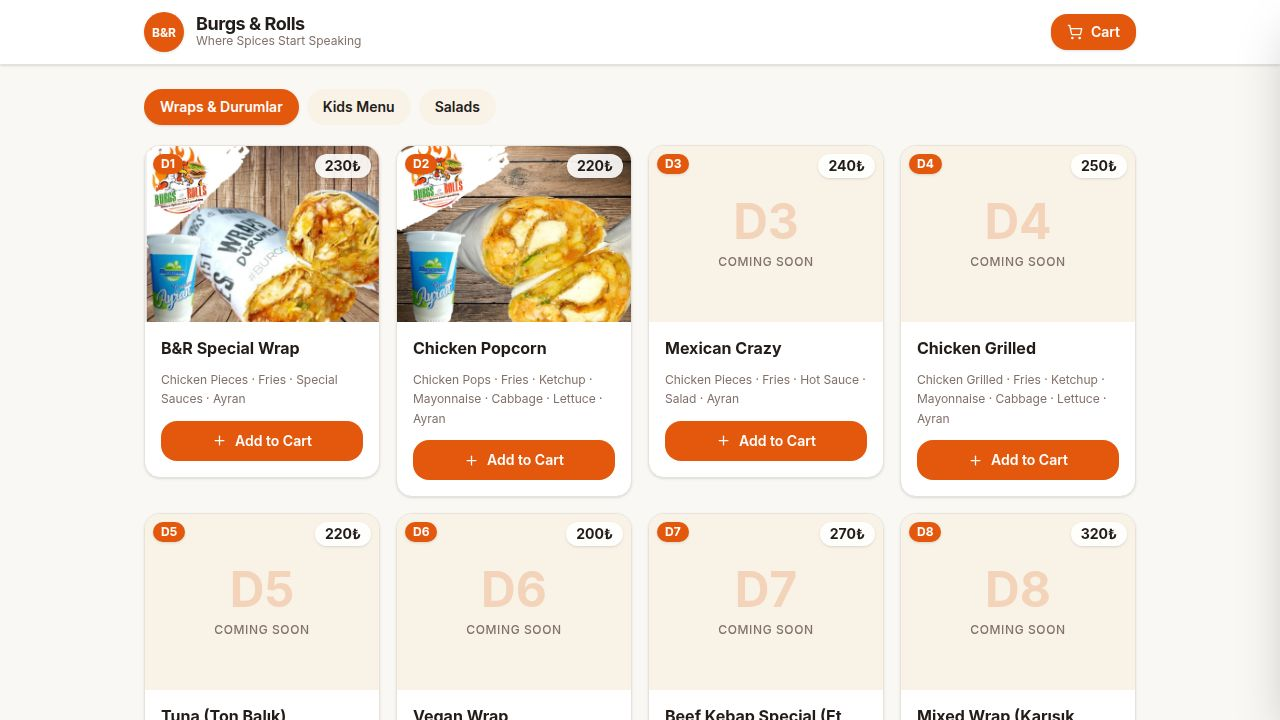
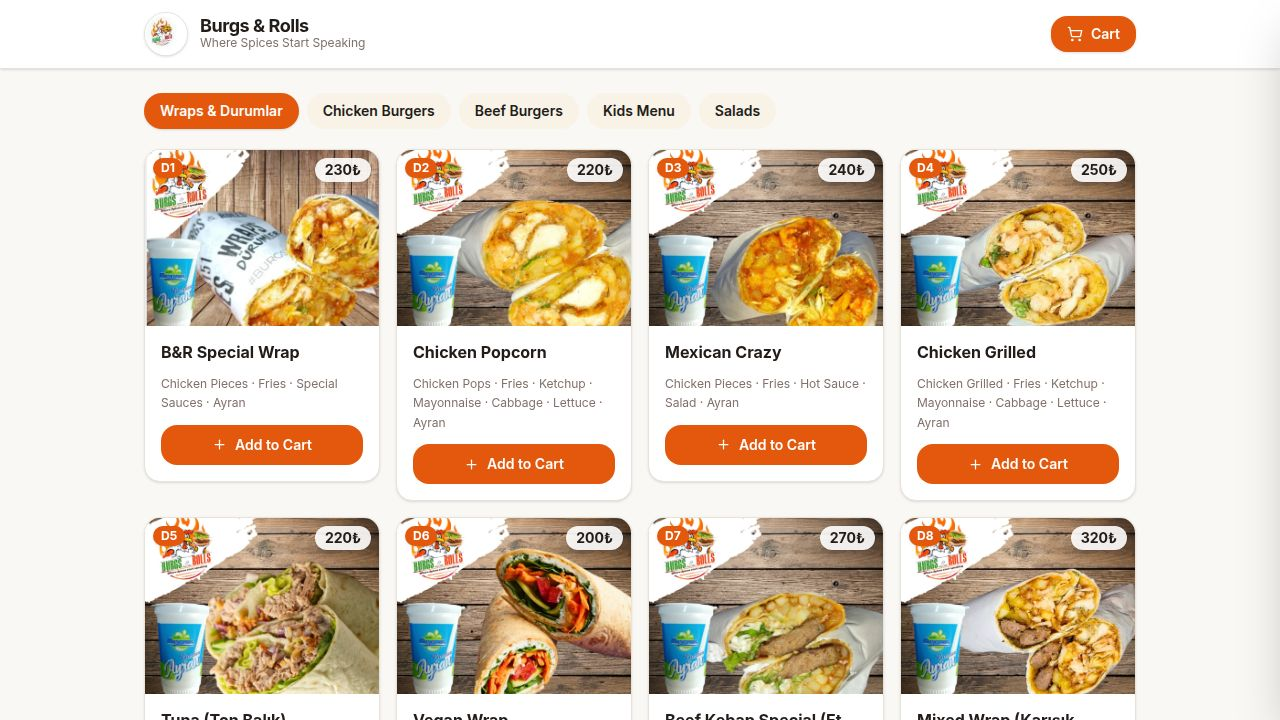
Add beef burgers category with seven new menu items
Adds a new "Beef Burgers" category to the menu data and incorporates seven new menu items (B8-B14) with their respective images, ingredients, and pricing in `src/data/menu.ts`.

Replit-Commit-Author: Agent
Replit-Commit-Session-Id: 3e6cf989-9e7e-4a2a-8a20-c185395ad889
Replit-Commit-Checkpoint-Type: full_checkpoint
Replit-Commit-Event-Id: 55054a33-ad62-4e13-8ffa-ddc3eda2355a
Replit-Commit-Screenshot-Url: https://storage.googleapis.com/screenshot-production-us-central1/345a1195-fdef-4de6-a1ad-b67a0b9f1204/3e6cf989-9e7e-4a2a-8a20-c185395ad889/ZJ8aBb2
Replit-Helium-Checkpoint-Created: true

diff --git a/artifacts/burgs-n-rolls/src/data/menu.ts b/artifacts/burgs-n-rolls/src/data/menu.ts
@@ -16,6 +16,7 @@ export interface Category {
 export const categories: Category[] = [
   { id: "wraps", label: "Wraps & Durumlar" },
   { id: "burgers", label: "Chicken Burgers" },
+  { id: "beef", label: "Beef Burgers" },
   { id: "kids", label: "Kids Menu" },
   { id: "salads", label: "Salads" },
 ];
@@ -164,6 +165,69 @@ export const menuItems: MenuItem[] = [
     ingredients: ["190g Fresh Chicken", "Mushrooms", "Sauces", "Grilled Onion", "Fries", "330ml Coca-Cola"],
     category: "burgers",
     price: "300₺",
+  },
+  {
+    id: "b8",
+    code: "B8",
+    name: "Istanbul Wonder",
+    image: "/b8.jpeg",
+    ingredients: ["120g Beef", "Grilled Halloumi", "Grilled Onion", "Tomatoes", "Sauces", "Fries", "330ml Coca-Cola"],
+    category: "beef",
+    price: "340₺",
+  },
+  {
+    id: "b9",
+    code: "B9",
+    name: "London Double Decker",
+    image: "/b9.jpeg",
+    ingredients: ["240g Beef", "Grilled Onion", "Tomatoes", "Cheese", "Burger Sauce", "Mix Sauce", "Fries", "330ml Coca-Cola"],
+    category: "beef",
+    price: "440₺",
+  },
+  {
+    id: "b10",
+    code: "B10",
+    name: "Paris Lovers",
+    image: "/b10.jpeg",
+    ingredients: ["120g Beef", "Cheese", "Onion", "Tomatoes", "Pickles", "Sweet Chili", "Fries", "330ml Coca-Cola"],
+    category: "beef",
+    price: "350₺",
+  },
+  {
+    id: "b11",
+    code: "B11",
+    name: "African Seasons",
+    image: "/b11.jpeg",
+    ingredients: ["120g Beef", "Onion", "Mild Hot Sauces", "African Season Spices", "Fries", "330ml Coca-Cola"],
+    category: "beef",
+    price: "300₺",
+  },
+  {
+    id: "b12",
+    code: "B12",
+    name: "New York Truffle",
+    image: "/b12.jpeg",
+    ingredients: ["120g Beef", "Grilled Mushrooms", "Cheese", "Grilled Onion", "Mix Sauce", "Fries", "330ml Coca-Cola"],
+    category: "beef",
+    price: "350₺",
+  },
+  {
+    id: "b13",
+    code: "B13",
+    name: "Hollywood Style",
+    image: "/b13.jpeg",
+    ingredients: ["120g Beef", "Onion Rings", "BBQ Sauce", "Cheese", "Special Sauce", "Fries", "330ml Coca-Cola"],
+    category: "beef",
+    price: "340₺",
+  },
+  {
+    id: "b14",
+    code: "B14",
+    name: "Karachi Chatpata",
+    image: "/b14.jpeg",
+    ingredients: ["120g Beef", "Grilled Onion", "Grilled Tomatoes", "Pickles", "Cheese", "Jalapeño", "Mix Sauce", "Mix Spices", "330ml Coca-Cola"],
+    category: "beef",
+    price: "360₺",
   },
   {
     id: "a1",
